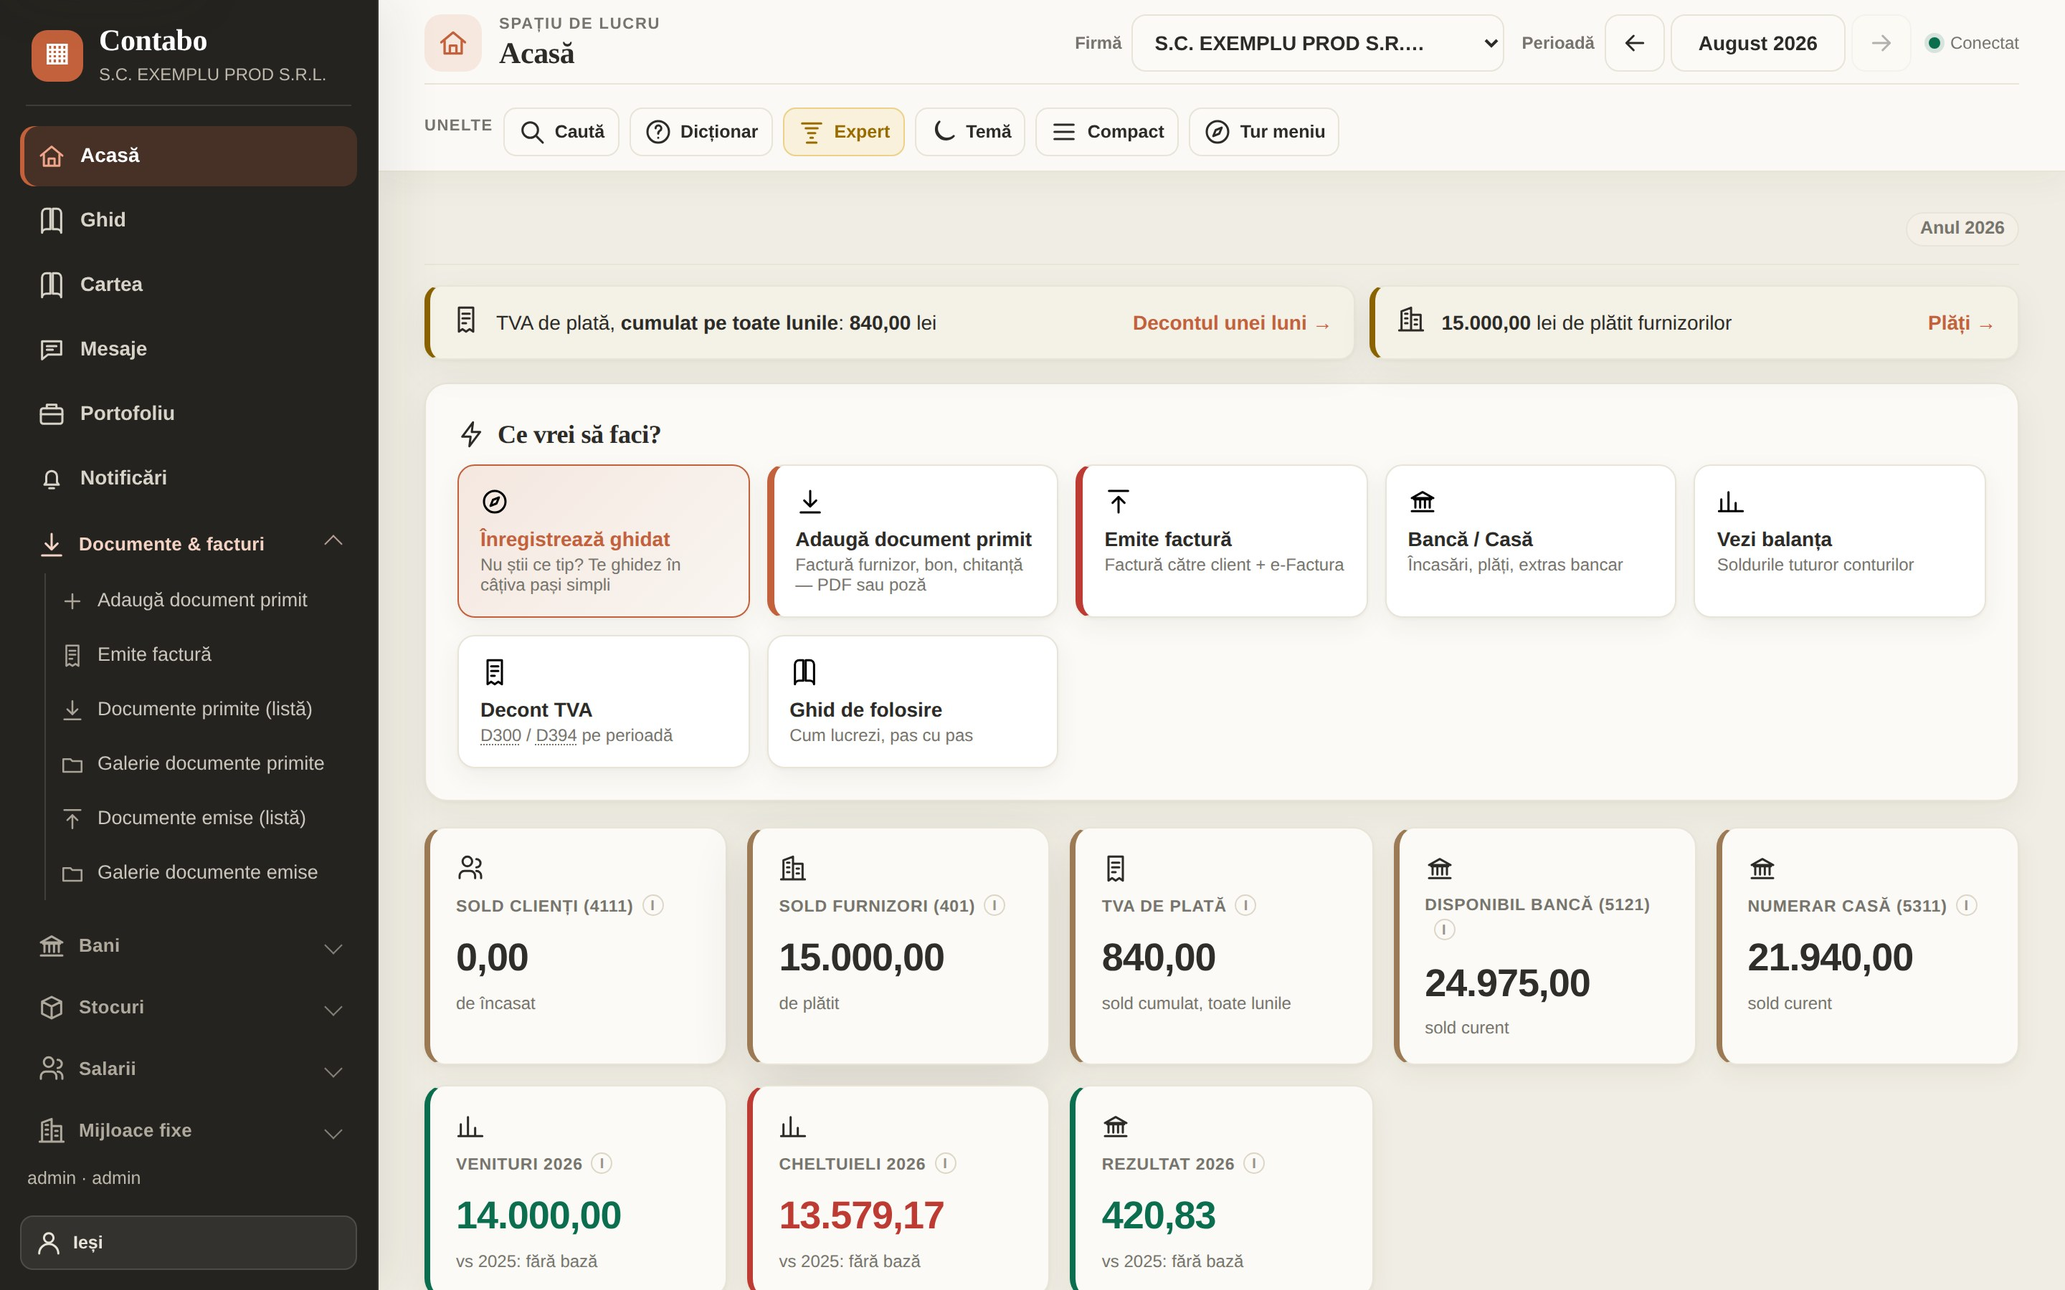
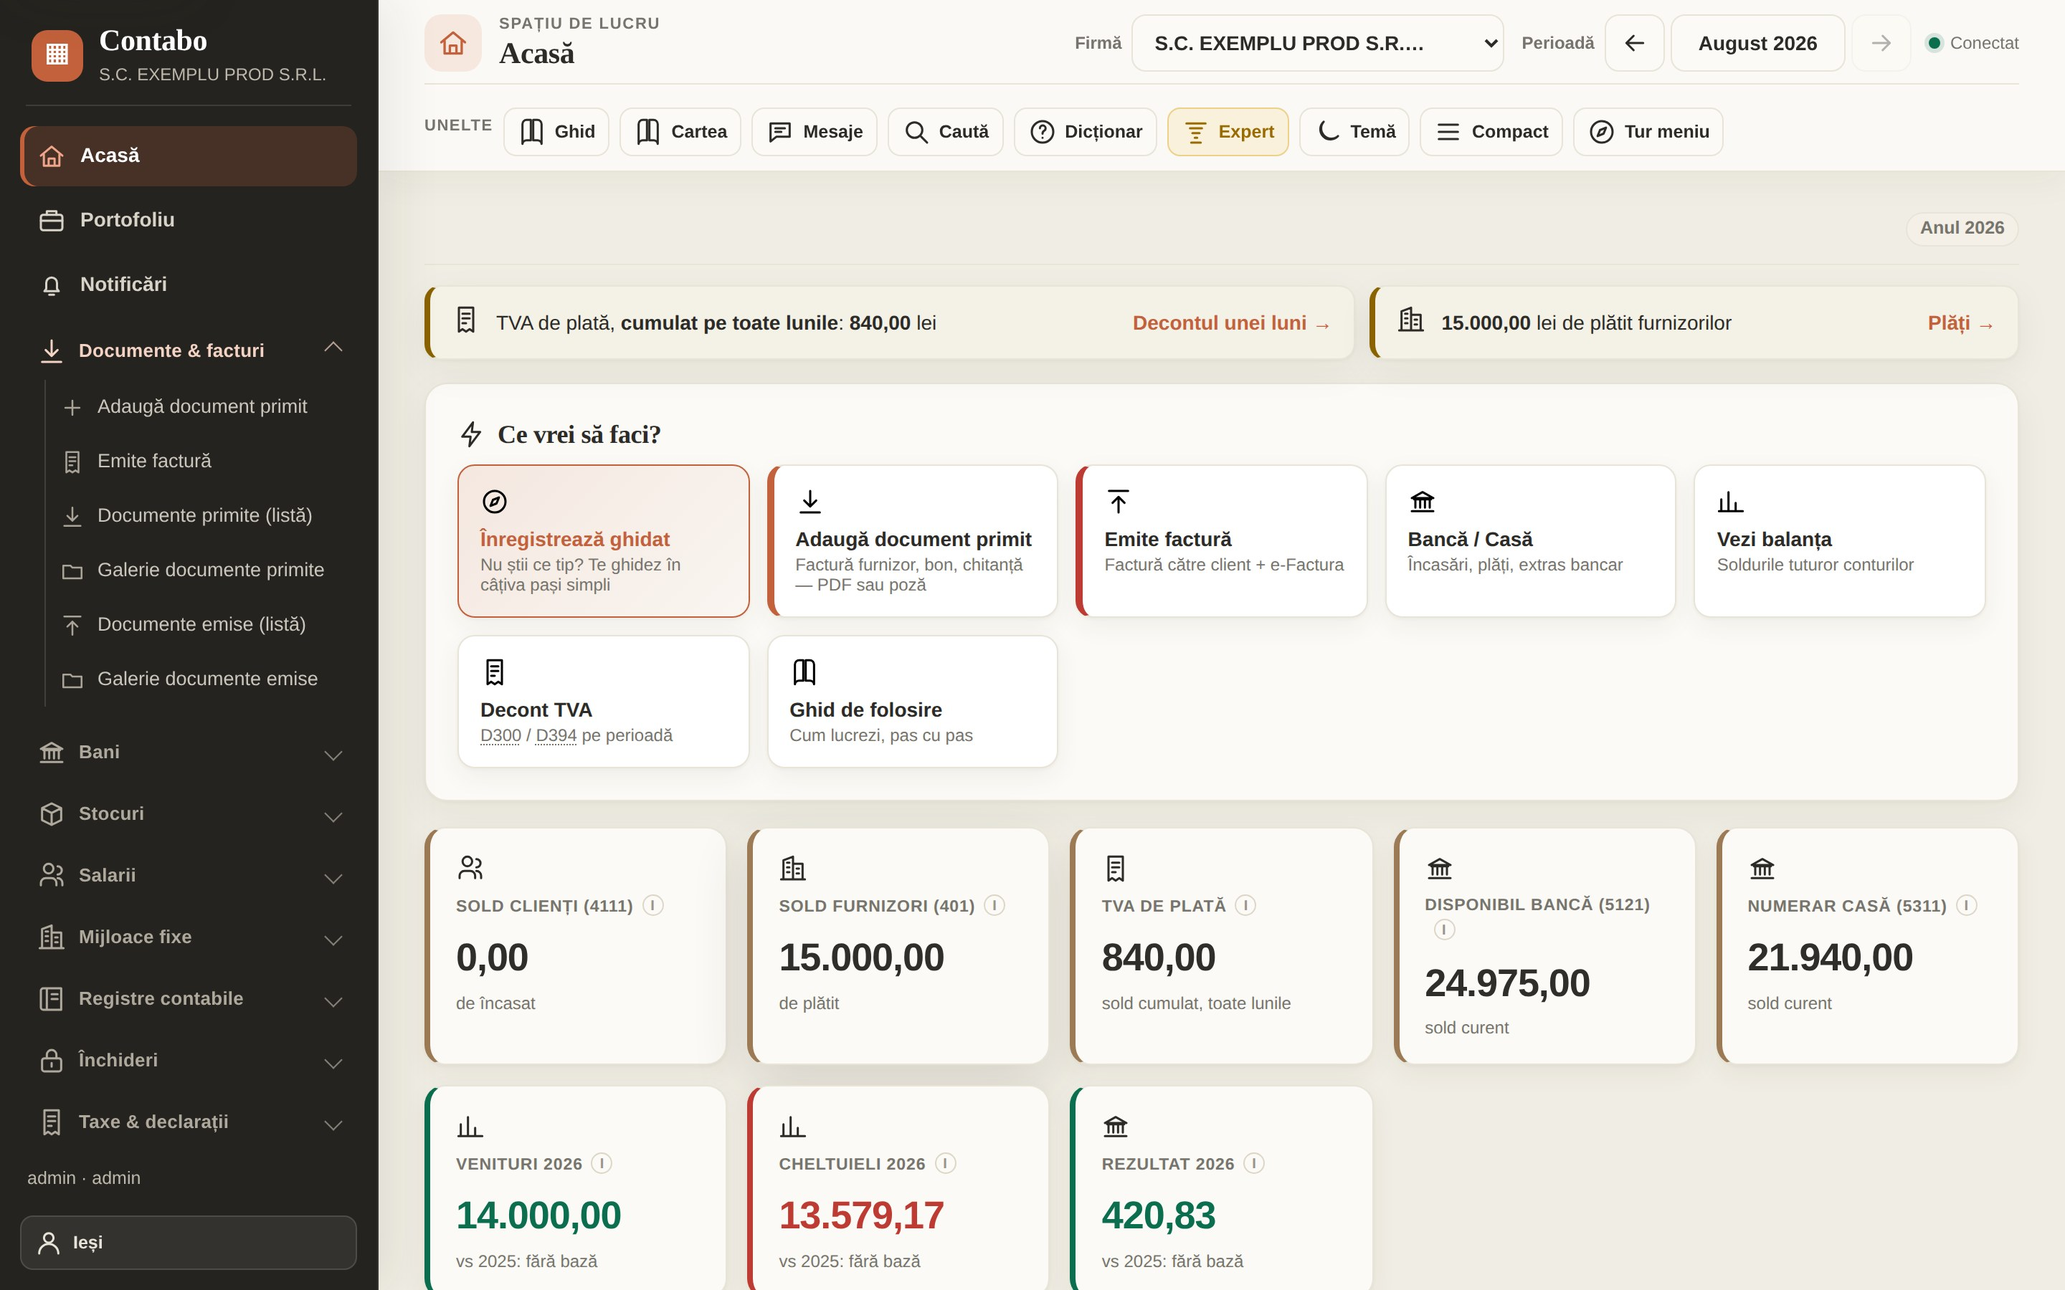
feat: move guide book and messages to top tools

diff --git a/public/app.js b/public/app.js
@@ -116,12 +116,21 @@ $$('#tabs .navgroup').forEach((g) => {
 // facut-o sa deschida exact sectiunea in care nu-ti incepi ziua.
 openGroup($$('#tabs .navgroup').find((g) => g.querySelector('[data-tab="documente"]')) || $$('#tabs .navgroup')[0]);
 
-$('#tabs').addEventListener('click', (e) => {
-  const b = e.target.closest('button'); if (!b || !b.dataset.tab) return; // ignora etichetele de grup
-  $$('#tabs button[data-tab]').forEach((x) => x.classList.toggle('active', x === b));
+// Destinațiile aplicației stau în două regiuni cu roluri diferite: ciclul contabil în #tabs,
+// iar Ghid/Mesaje în banda globală #sideTools. Sunt însă o SINGURĂ navigare logică.
+const NAV_TAB_SELECTOR = '#tabs button[data-tab], #sideTools button[data-tab]';
+function navTabButtons() { return $$(NAV_TAB_SELECTOR); }
+function navTabButton(name) { return navTabButtons().find((b) => b.dataset.tab === name) || null; }
+function activeNavTabButton() { return navTabButtons().find((b) => b.classList.contains('active')) || null; }
+function selectNavTabButton(b) {
+  navTabButtons().forEach((x) => x.classList.toggle('active', x === b));
   $$('#tabs .navlabel').forEach((l) => l.classList.remove('active'));
   const grp = b.closest('.navgroup');
   if (grp) { openGroup(grp); grp.querySelector('.navlabel').classList.add('active'); }
+}
+function navigateFromTabButton(b) {
+  if (!b || !b.dataset.tab) return;
+  selectNavTabButton(b);
   $$('.tab').forEach((s) => s.classList.toggle('active', s.id === 'tab-' + b.dataset.tab));
   if (document.activeElement) document.activeElement.blur();
   onTab(b.dataset.tab);
@@ -132,6 +141,14 @@ $('#tabs').addEventListener('click', (e) => {
   } else {
     window.scrollTo({ top: 0 });
   }
+}
+$('#tabs').addEventListener('click', (e) => {
+  const b = e.target.closest('button'); if (!b || !b.dataset.tab) return; // ignora etichetele de grup
+  navigateFromTabButton(b);
+});
+$('#sideTools').addEventListener('click', (e) => {
+  const b = e.target.closest('button[data-tab]');
+  if (b) navigateFromTabButton(b);
 });
 function onTab(t) {
   if (t === 'dashboard') loadDashboard();
@@ -244,7 +261,7 @@ $('#firmaSelect').addEventListener('change', async (e) => {
   // formularele vor restaura numai ciornele firmei nou activate.
   flushAllFormFlows();
   await activateFirma(e.target.value);
-  const active = $('#tabs button[data-tab].active'); onTab(active ? active.dataset.tab : 'dashboard');
+  const active = activeNavTabButton(); onTab(active ? active.dataset.tab : 'dashboard');
   toast('Firmă activă schimbată');
 });
 // ───────────────────────── ADMINISTRARE (firme / utilizatori / audit) ─────────────────────────
@@ -726,10 +743,8 @@ applyTheme();
 
 // Comutare programatica intre tab-uri (din linkuri/scurtaturi); scrollId optional
 function goTab(name, scrollId) {
-  const b = $(`#tabs button[data-tab="${name}"]`);
-  $$('#tabs button[data-tab]').forEach((x) => x.classList.toggle('active', x === b));
-  $$('#tabs .navlabel').forEach((l) => l.classList.remove('active'));
-  const grp = b && b.closest('.navgroup'); if (grp) { openGroup(grp); grp.querySelector('.navlabel').classList.add('active'); }
+  const b = navTabButton(name);
+  if (b) selectNavTabButton(b);
   $$('.tab').forEach((s) => s.classList.toggle('active', s.id === 'tab-' + name));
   if (document.activeElement) document.activeElement.blur();
   onTab(name);
@@ -743,7 +758,7 @@ function goTab(name, scrollId) {
 // functiile global, deci navigarea programatica are nevoie de acest export explicit pe window.
 window.goTab = goTab;
 // La revenirea online: reincarca vederea curenta (datele vin doar de la server — nu se cacheaza).
-setOnReconnect(() => { const active = $('#tabs button[data-tab].active'); if (active) { toast('Conexiune revenită — reîncarc datele.'); onTab(active.dataset.tab); } });
+setOnReconnect(() => { const active = activeNavTabButton(); if (active) { toast('Conexiune revenită — reîncarc datele.'); onTab(active.dataset.tab); } });
 // Scurtaturi „Ce vrei sa faci?” de pe Dashboard
 $$('.qa[data-go]').forEach((b) => b.addEventListener('click', () => goTab(b.dataset.go, b.dataset.scroll)));
 
@@ -810,8 +825,8 @@ $('#welcomeGuide').addEventListener('click', () => { closeWelcome(); goTab('ghid
 const TOUR = [
   { ic: '👋', title: 'Bun venit! Meniul, pe scurt', text: 'L-am organizat pe ORDINEA în care se lucrează: de sus în jos e chiar ciclul contabil — documente, bani, ce mișcă lunar, verificare, închiderea lunii, declarații, rapoarte. Ți-l arăt în câțiva pași — apoi ești gata.' },
   { sel: '#tabs [data-tab="dashboard"]', ic: '🏠', title: 'Acasă', text: 'Punctul de plecare: butoane „Ce vrei să faci?" și o privire de ansamblu asupra firmei.' },
-  { sel: '#tabs [data-tab="ghid"]', ic: '📖', title: 'Ghid', text: 'Cum lucrezi, pas cu pas — de la primul document până la declarații.' },
-  { sel: '#tabs [data-tab="mesaje"]', ic: '💬', title: 'Mesaje', text: 'Ai o întrebare? Scrie-i administratorului direct de aici — îți răspunde în aplicație.' },
+  { sel: '#sideTools [data-tab="ghid"]', ic: '📖', title: 'Ghid', text: 'Cum lucrezi, pas cu pas — de la primul document până la declarații.' },
+  { sel: '#sideTools [data-tab="mesaje"]', ic: '💬', title: 'Mesaje', text: 'Ai o întrebare? Scrie-i administratorului direct de aici — îți răspunde în aplicație.' },
   { sel: '#tabs [data-tab="notificari"]', ic: '🔔', title: 'Notificări', text: 'Termenele fiscale care se apropie și restanțele. Fiecare rând are butonul care le rezolvă.' },
   { sel: '#navPortofoliu', ic: '🗂', title: 'Portofoliu', text: 'Toate firmele tale deodată: ce declarații are fiecare și ce a rămas de făcut. Util mai ales când administrezi mai multe.' },
   { group: 'Documente', ic: '📥', title: 'Documente & facturi', text: 'De aici pornește totul: încarci documentele primite (aplicația le citește singură) și emiți facturi către clienți.' },
@@ -896,7 +911,7 @@ $('#tourNext').addEventListener('click', () => { if (tourIdx >= TOUR_PASI.length
 $('#tourBack').addEventListener('click', () => showTourStep(tourIdx - 1));
 $('#tourSkip').addEventListener('click', endTour);
 $('#tourReplay') && $('#tourReplay').addEventListener('click', startTour);
-// acelasi tur, pornit si din bara laterala (langa comutatorul de densitate): din Ghid se ajunge
+// acelasi tur, pornit si din banda de sus (langa comutatorul de densitate): din Ghid se ajunge
 // doar daca stii ca exista, iar turul e util tocmai celui care inca NU stie unde e ce.
 $('#tourBtn') && $('#tourBtn').addEventListener('click', startTour);
 document.addEventListener('keydown', (e) => { if (e.key === 'Escape' && !$('#tourCard').classList.contains('hidden')) endTour(); });

diff --git a/public/index.html b/public/index.html
@@ -313,6 +313,10 @@
          Astfel apar sus pe fiecare pagină, iar bara laterală rămâne exclusiv pentru navigație. -->
     <nav class="side-tools" id="sideTools" aria-label="Unelte rapide">
       <span class="side-tools-label">Unelte</span>
+      <button data-tab="ghid" id="toolGhid" class="btn small">📖 Ghid</button>
+      <a href="/carte/" id="toolCartea" target="_blank" rel="noopener" class="btn small navlink"
+         title="Cartea de contabilitate — 51 de capitole și 5 anexe, de citit în browser">📚 Cartea</a>
+      <button data-tab="mesaje" id="toolMesaje" class="btn small">💬 Mesaje<span id="msgBadge" class="navbadge hidden">0</span></button>
       <button id="paletaBtn" class="btn small" title="Caută în aplicație — clienți, facturi, pagini (Ctrl+K)">🔎 Caută</button>
       <button id="glossaryBtn" class="btn small" title="Dicționar contabil — termenii aplicației explicați pe înțelesul tuturor">❓ Dicționar</button>
       <button id="uiModeBtn" class="btn small" title="Mod simplu: ascunde partea tehnic-contabilă din meniu (balanță, registre, plan de conturi, închideri). Contabilitatea rulează neschimbată în fundal. Mod expert: totul vizibil.">🎓</button>
@@ -332,17 +336,10 @@
            verifică acum că meniul n-o mai contrazice. Jos stau lucrurile din afara ciclului:
            nomenclatoarele și setările — se ating rar, deci nu mai stau în drum. -->
       <button data-tab="dashboard" class="active">🏠 Acasă</button>
-      <button data-tab="ghid">📖 Ghid</button>
-      <!-- Cartea de contabilitate: 51 de capitole si 5 anexe, la /carte/. E o LEGATURA, nu un tab:
-           deschide alt document, in fila noua. Deci nu are `data-tab` si nu ii trebuie sectiune —
-           poarta „fiecare intrare de meniu are sectiune" se uita, corect, doar la butoane. -->
-      <a href="/carte/" target="_blank" rel="noopener" class="navlink"
-         title="Cartea de contabilitate — 51 de capitole și 5 anexe, de citit în browser">📚 Cartea</a>
       <div id="imperBanner" class="notice warning imper-banner hidden">
         <div class="imper-copy"><span class="notice-icon">👤</span><span>Conectat ca <b id="imperName"></b> <span class="imper-sub">Mod administrator — „intră pe cont”. Toate acțiunile sunt jurnalizate.</span></span></div>
         <button id="imperStop" type="button" class="btn">↩ Revino la contul de admin</button>
       </div>
-      <button data-tab="mesaje">💬 Mesaje<span id="msgBadge" class="navbadge hidden">0</span></button>
       <button data-tab="portofoliu" id="navPortofoliu">🗂 Portofoliu</button>
       <button data-tab="notificari" title="Notificări — termene fiscale">🔔 Notificări<span id="notifBadge" class="navbadge hidden">0</span></button>
       <div class="navgroup">

diff --git a/public/erp.js b/public/erp.js
@@ -1,10 +1,10 @@
 /* ═══════════════════════════════════════════════════════════════════════════════
-   Interfața aplicației — un singur arbore de navigație și un singur context.
+   Interfața aplicației — o singură navigare logică și un singur context.
 
    Acest fișier NU creează rute, copii ale meniului sau copii ale selectoarelor.
-   Arborele real `#tabs` rămâne unica navigație, iar firma și perioada sunt MUTATE
-   (nu duplicate) într-o bară contextuală comună desktop/mobil. Astfel logica din
-   app.js, permisiunile și modul simplu au în continuare o singură sursă de adevăr.
+   Arborele contabil `#tabs` și destinațiile globale din `#sideTools` sunt nodurile reale,
+   iar firma, perioada și uneltele sunt MUTATE (nu duplicate) într-o bară contextuală
+   comună desktop/mobil. Logica din app.js rămâne sursa unică de activare a paginilor.
    ═══════════════════════════════════════════════════════════════════════════════ */
 (function () {
   'use strict';
@@ -280,7 +280,7 @@
   }
 
   function sincronizeaza() {
-    var activ = $('#tabs button[data-tab].active');
+    var activ = document.querySelector('#tabs button[data-tab].active, #sideTools button[data-tab].active');
     var titlu = $('#appContextTitle');
     var textTitlu = eticheta(activ) || 'Acasă';
     if (titlu && titlu.textContent !== textTitlu) titlu.textContent = textTitlu;

diff --git a/public/erp.css b/public/erp.css
@@ -3,8 +3,8 @@
 
    Loginul și aplicația folosesc acum aceeași familie vizuală: suprafețe calde,
    accente teracotă, sidebar cărbune, spațiere generoasă și controale accesibile.
-   Nu există meniu superior, ribbon sau bară de stare: `#tabs` este unica
-   navigație, iar `#appContext` spune limpede pagina, firma și perioada active.
+   Nu există meniu superior duplicat, ribbon sau bară de stare: `#tabs` păstrează ciclul
+   contabil, iar `#appContext` reunește pagina, firma, perioada și destinațiile globale.
    ═══════════════════════════════════════════════════════════════════════════════ */
 
 body.erp {
@@ -312,6 +312,12 @@ body.erp .app-context .side-tools .btn:hover {
   color: var(--app-clay);
   background: color-mix(in srgb, var(--app-clay) 8%, var(--card));
   border-color: color-mix(in srgb, var(--app-clay) 45%, var(--line));
+}
+body.erp .app-context .side-tools button[data-tab].active {
+  color: var(--app-clay);
+  background: color-mix(in srgb, var(--app-clay) 13%, var(--card));
+  border-color: color-mix(in srgb, var(--app-clay) 65%, var(--line));
+  box-shadow: inset 0 -2px 0 var(--app-clay);
 }
 body.erp .app-context .side-tools .btn.mod-expert {
   color: #9a6b00;

diff --git a/public/messages.js b/public/messages.js
@@ -115,7 +115,7 @@ function renderAdminInbox(threads) {
   const box = $('#msgThreads');
   const showArch = $('#msgShowArchived') && $('#msgShowArchived').checked;
   const list = (threads || []).filter((t) => showArch || !t.archived);
-  if (!list.length) { box.innerHTML = '<p class="muted">' + (MSG_SEARCH_Q ? 'Niciun rezultat pentru căutare.' : 'Nicio conversație. Utilizatorii îți pot scrie din meniul „Mesaje".') + '</p>'; return; }
+  if (!list.length) { box.innerHTML = '<p class="muted">' + (MSG_SEARCH_Q ? 'Niciun rezultat pentru căutare.' : 'Nicio conversație. Utilizatorii îți pot scrie din „Unelte → Mesaje".') + '</p>'; return; }
   box.innerHTML = list.map((t) => {
     const snippet = t.match != null ? t.match : ((t.lastFromAdmin ? 'Tu: ' : '') + (t.lastText || ''));
     return `<button type="button" class="thread-item${t.userId === MSG_ADMIN_TARGET ? ' active' : ''}${t.archived ? ' archived' : ''}" data-uid="${t.userId}">

diff --git a/public/paleta.js b/public/paleta.js
@@ -21,7 +21,7 @@ const fold = (s) => String(s == null ? '' : s).toLowerCase().normalize('NFD').re
 function destinatii() {
   // doar butoanele CHIAR vizibile (offsetParent) — in modul simplu intrarile tehnice lipsesc,
   // iar un rezultat catre un tab ascuns ar fi o promisiune pe care meniul n-o tine
-  return $$('#tabs button[data-tab]').filter((b) => b.offsetParent !== null).map((b) => {
+  return $$('#tabs button[data-tab], #sideTools button[data-tab]').filter((b) => b.offsetParent !== null).map((b) => {
     const grup = b.closest('.navgroup');
     const eticheta = grup ? (grup.querySelector('.navlabel') || {}).textContent : '';
     return { fel: 'nav', text: b.textContent.trim(), sub: (eticheta || '').trim(), tab: b.dataset.tab };

diff --git a/public/sw.js b/public/sw.js
@@ -11,7 +11,7 @@
 //     `no-cache`-ul serverului = actualizari instant la deploy); cache-ul e doar plasa de offline.
 //  3. Doar GET, doar same-origin. Versiune in numele cache-ului -> activate sterge ce e vechi.
 
-const CACHE = 'contab-shell-v25';
+const CACHE = 'contab-shell-v26';
 const SHELL = ['/', '/styles.css', '/u.css', '/erp.css', '/design-system.css', '/erp.js', '/formflow.js', '/core.js', '/app.js', '/manifest.webmanifest'];
 const BYPASS = /^\/(api|pdf|xml|csv|efactura)(\/|$|\?)/;
 

diff --git a/public/periods.js b/public/periods.js
@@ -115,7 +115,7 @@ function applyWorkMonth() {
   // câmpurile native de lună rămase (dacă există) urmează luna de lucru
   $$('input[type="month"].period').forEach((el) => { el.value = m; });
   if (D.renderEntryLists) D.renderEntryLists();
-  const active = $('#tabs button[data-tab].active');
+  const active = document.querySelector('#tabs button[data-tab].active, #sideTools button[data-tab].active');
   if (active && D.onTab) D.onTab(active.dataset.tab);
 }
 setCurrentPeriod();

diff --git a/docs/arhitectura.md b/docs/arhitectura.md
@@ -257,15 +257,15 @@ Aplicația cere **login** și aplică **drepturi pe firmă**:
   alertă (max. una pe oră); la înscriere, utilizatorii cu email primesc un **mesaj de bun venit**
   cu primii pași.
 - **E2E pe live:** `npm run e2e` (`scripts/e2e.mjs`, Playwright — pe acest server prin Docker,
-  comanda e în antetul scriptului): 48 verificări cap-coadă pe instanța reală, cu contul demo —
+  comanda e în antetul scriptului): 50 verificări cap-coadă pe instanța reală, cu contul demo —
   inclusiv FAQ-ul public de pe login, dicționarul contabil, cardul de pro-rata din tab-ul TVA, căutarea globală (Ctrl+K) și
   două porți care au nevoie de un browser adevărat, deci nu pot trăi în `npm test`: contrastul AA
-  al comenzilor din bara laterală (în ambele teme) și **modul simplu fără coduri de cont** —
+  al comenzilor din antet (în ambele teme) și **modul simplu fără coduri de cont** —
   se numără codurile din planul de conturi care ajung efectiv pe ecran (zero în simplu, nenul în
   expert, ca să nu treacă nici o regresie care ar ascunde totul pentru toată lumea).
 - **E2E pe instanță izolată:** `npm run e2e-izolat` (`scripts/e2e-izolat.sh` +
   `scripts/e2e-izolat.mjs`) ridică o instanță proprie (bază și date temporare, port separat) și
-  rulează **158 verificări pe instanță izolată** (unele verifică fiecare pagină/declarație,
+  rulează **161 verificări pe instanță izolată** (unele verifică fiecare pagină/declarație,
   deci rularea produce mai multe rezultate) — exact fluxurile care nu se pot atinge pe demo
   live: roluri și drepturi granulare, resetare de parolă cu token real, importuri, erori SPV fără
   credențiale, declarațiile și situațiile XML accesibile profilului seed, **restaurarea efectivă** a unui backup (verificată
